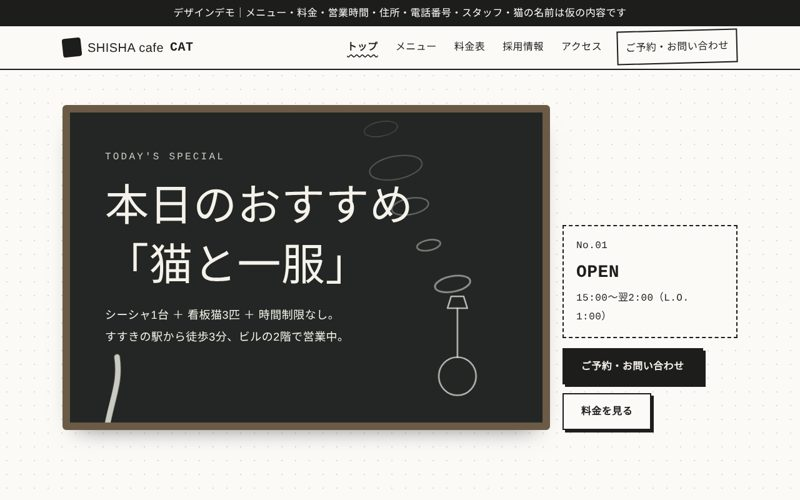
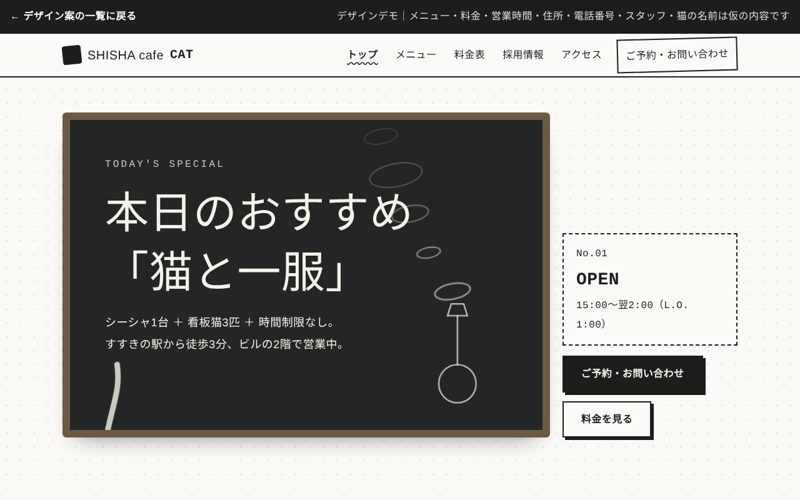
デザイン案に「一覧に戻る」リンク、デモ共有用のCloudflare設定を追加
- 各パターンの全ページ上部に「← デザイン案の一覧に戻る」
- sites/wrangler.jsonc（demoプロジェクト）と .assetsignore（一覧・本番・テストは公開しない）
- 比較ページのサムネイルを更新
- CLAUDE.md: デモの共有用URLのルールを追加

Claude-Session: https://claude.ai/code/session_011FpAienEWt9RvPZTk2NN9d

diff --git a/sites/shisha-cafe-cat/patterns/1/style.css b/sites/shisha-cafe-cat/patterns/1/style.css
@@ -13,7 +13,10 @@ ul,ol{margin:0;padding:0;list-style:none}
 [hidden]{display:none!important}
 .wrap{max-width:1120px;margin:0 auto;padding-left:max(20px,env(safe-area-inset-left,0px));padding-right:max(20px,env(safe-area-inset-right,0px))}
 
-.demo{margin:0;background:var(--ink);color:var(--bg);font-size:16px;line-height:1.6;text-align:center;padding:8px 16px}
+.demo{display:flex;flex-wrap:wrap;align-items:center;justify-content:space-between;gap:4px 16px;background:var(--ink);color:var(--bg);font-size:16px;line-height:1.6;padding:4px max(16px,env(safe-area-inset-right,0px)) 6px max(16px,env(safe-area-inset-left,0px))}
+.demo-back{display:inline-flex;align-items:center;min-height:44px;font-weight:700;text-decoration:none;color:inherit}
+.demo-back:hover{text-decoration:underline}
+.demo span{opacity:.85}
 
 /* ヘッダー */
 .hd{position:sticky;top:0;z-index:50;transition:transform .45s cubic-bezier(.2,.8,.2,1),background .3s,box-shadow .3s}

diff --git a/sites/shisha-cafe-cat/patterns/2/style.css b/sites/shisha-cafe-cat/patterns/2/style.css
@@ -13,7 +13,10 @@ ul,ol{margin:0;padding:0;list-style:none}
 [hidden]{display:none!important}
 .wrap{max-width:1120px;margin:0 auto;padding-left:max(20px,env(safe-area-inset-left,0px));padding-right:max(20px,env(safe-area-inset-right,0px))}
 
-.demo{margin:0;background:var(--ink);color:var(--bg);font-size:16px;line-height:1.6;text-align:center;padding:8px 16px}
+.demo{display:flex;flex-wrap:wrap;align-items:center;justify-content:space-between;gap:4px 16px;background:var(--ink);color:var(--bg);font-size:16px;line-height:1.6;padding:4px max(16px,env(safe-area-inset-right,0px)) 6px max(16px,env(safe-area-inset-left,0px))}
+.demo-back{display:inline-flex;align-items:center;min-height:44px;font-weight:700;text-decoration:none;color:inherit}
+.demo-back:hover{text-decoration:underline}
+.demo span{opacity:.85}
 
 /* ヘッダー */
 .hd{position:sticky;top:0;z-index:50;transition:transform .45s cubic-bezier(.2,.8,.2,1),background .3s,box-shadow .3s}

diff --git a/sites/shisha-cafe-cat/patterns/3/style.css b/sites/shisha-cafe-cat/patterns/3/style.css
@@ -13,7 +13,10 @@ ul,ol{margin:0;padding:0;list-style:none}
 [hidden]{display:none!important}
 .wrap{max-width:1120px;margin:0 auto;padding-left:max(20px,env(safe-area-inset-left,0px));padding-right:max(20px,env(safe-area-inset-right,0px))}
 
-.demo{margin:0;background:var(--ink);color:var(--bg);font-size:16px;line-height:1.6;text-align:center;padding:8px 16px}
+.demo{display:flex;flex-wrap:wrap;align-items:center;justify-content:space-between;gap:4px 16px;background:var(--ink);color:var(--bg);font-size:16px;line-height:1.6;padding:4px max(16px,env(safe-area-inset-right,0px)) 6px max(16px,env(safe-area-inset-left,0px))}
+.demo-back{display:inline-flex;align-items:center;min-height:44px;font-weight:700;text-decoration:none;color:inherit}
+.demo-back:hover{text-decoration:underline}
+.demo span{opacity:.85}
 
 /* ヘッダー */
 .hd{position:sticky;top:0;z-index:50;transition:transform .45s cubic-bezier(.2,.8,.2,1),background .3s,box-shadow .3s}

diff --git a/sites/shisha-cafe-cat/patterns/4/style.css b/sites/shisha-cafe-cat/patterns/4/style.css
@@ -13,7 +13,10 @@ ul,ol{margin:0;padding:0;list-style:none}
 [hidden]{display:none!important}
 .wrap{max-width:1120px;margin:0 auto;padding-left:max(20px,env(safe-area-inset-left,0px));padding-right:max(20px,env(safe-area-inset-right,0px))}
 
-.demo{margin:0;background:var(--ink);color:var(--bg);font-size:16px;line-height:1.6;text-align:center;padding:8px 16px}
+.demo{display:flex;flex-wrap:wrap;align-items:center;justify-content:space-between;gap:4px 16px;background:var(--ink);color:var(--bg);font-size:16px;line-height:1.6;padding:4px max(16px,env(safe-area-inset-right,0px)) 6px max(16px,env(safe-area-inset-left,0px))}
+.demo-back{display:inline-flex;align-items:center;min-height:44px;font-weight:700;text-decoration:none;color:inherit}
+.demo-back:hover{text-decoration:underline}
+.demo span{opacity:.85}
 
 /* ヘッダー */
 .hd{position:sticky;top:0;z-index:50;transition:transform .45s cubic-bezier(.2,.8,.2,1),background .3s,box-shadow .3s}

diff --git a/sites/shisha-cafe-cat/patterns/5/style.css b/sites/shisha-cafe-cat/patterns/5/style.css
@@ -13,7 +13,10 @@ ul,ol{margin:0;padding:0;list-style:none}
 [hidden]{display:none!important}
 .wrap{max-width:1120px;margin:0 auto;padding-left:max(20px,env(safe-area-inset-left,0px));padding-right:max(20px,env(safe-area-inset-right,0px))}
 
-.demo{margin:0;background:var(--ink);color:var(--bg);font-size:16px;line-height:1.6;text-align:center;padding:8px 16px}
+.demo{display:flex;flex-wrap:wrap;align-items:center;justify-content:space-between;gap:4px 16px;background:var(--ink);color:var(--bg);font-size:16px;line-height:1.6;padding:4px max(16px,env(safe-area-inset-right,0px)) 6px max(16px,env(safe-area-inset-left,0px))}
+.demo-back{display:inline-flex;align-items:center;min-height:44px;font-weight:700;text-decoration:none;color:inherit}
+.demo-back:hover{text-decoration:underline}
+.demo span{opacity:.85}
 
 /* ヘッダー */
 .hd{position:sticky;top:0;z-index:50;transition:transform .45s cubic-bezier(.2,.8,.2,1),background .3s,box-shadow .3s}

diff --git a/sites/shisha-cafe-cat/patterns/1/recruit.html b/sites/shisha-cafe-cat/patterns/1/recruit.html
@@ -23,7 +23,7 @@
 <script type="application/ld+json" id="ld"></script>
 </head>
 <body class="p-standard page-recruit">
-<p class="demo">デザインデモ｜メニュー・料金・営業時間・住所・電話番号・スタッフ・猫の名前は仮の内容です</p>
+<div class="demo"><a class="demo-back" href="../">← デザイン案の一覧に戻る</a><span>デザインデモ｜メニュー・料金・営業時間・住所・電話番号・スタッフ・猫の名前は仮の内容です</span></div>
 <header class="hd" id="hd">
   <div class="wrap hd-in">
     <a class="logo" href="index.html" aria-label="SHISHA cafe CAT トップへ"><span class="logo-mark" aria-hidden="true"></span>SHISHA cafe <b>CAT</b></a>

diff --git a/sites/shisha-cafe-cat/patterns/2/recruit.html b/sites/shisha-cafe-cat/patterns/2/recruit.html
@@ -23,7 +23,7 @@
 <script type="application/ld+json" id="ld"></script>
 </head>
 <body class="p-minimal page-recruit">
-<p class="demo">デザインデモ｜メニュー・料金・営業時間・住所・電話番号・スタッフ・猫の名前は仮の内容です</p>
+<div class="demo"><a class="demo-back" href="../">← デザイン案の一覧に戻る</a><span>デザインデモ｜メニュー・料金・営業時間・住所・電話番号・スタッフ・猫の名前は仮の内容です</span></div>
 <header class="hd" id="hd">
   <div class="wrap hd-in">
     <a class="logo" href="index.html" aria-label="SHISHA cafe CAT トップへ"><span class="logo-mark" aria-hidden="true"></span>SHISHA cafe <b>CAT</b></a>

diff --git a/sites/shisha-cafe-cat/patterns/1/index.html b/sites/shisha-cafe-cat/patterns/1/index.html
@@ -23,7 +23,7 @@
 <script type="application/ld+json" id="ld"></script>
 </head>
 <body class="p-standard page-index">
-<p class="demo">デザインデモ｜メニュー・料金・営業時間・住所・電話番号・スタッフ・猫の名前は仮の内容です</p>
+<div class="demo"><a class="demo-back" href="../">← デザイン案の一覧に戻る</a><span>デザインデモ｜メニュー・料金・営業時間・住所・電話番号・スタッフ・猫の名前は仮の内容です</span></div>
 <header class="hd" id="hd">
   <div class="wrap hd-in">
     <a class="logo" href="index.html" aria-label="SHISHA cafe CAT トップへ"><span class="logo-mark" aria-hidden="true"></span>SHISHA cafe <b>CAT</b></a>

diff --git a/sites/shisha-cafe-cat/patterns/1/price.html b/sites/shisha-cafe-cat/patterns/1/price.html
@@ -23,7 +23,7 @@
 <script type="application/ld+json" id="ld"></script>
 </head>
 <body class="p-standard page-price">
-<p class="demo">デザインデモ｜メニュー・料金・営業時間・住所・電話番号・スタッフ・猫の名前は仮の内容です</p>
+<div class="demo"><a class="demo-back" href="../">← デザイン案の一覧に戻る</a><span>デザインデモ｜メニュー・料金・営業時間・住所・電話番号・スタッフ・猫の名前は仮の内容です</span></div>
 <header class="hd" id="hd">
   <div class="wrap hd-in">
     <a class="logo" href="index.html" aria-label="SHISHA cafe CAT トップへ"><span class="logo-mark" aria-hidden="true"></span>SHISHA cafe <b>CAT</b></a>

diff --git a/sites/shisha-cafe-cat/patterns/3/recruit.html b/sites/shisha-cafe-cat/patterns/3/recruit.html
@@ -23,7 +23,7 @@
 <script type="application/ld+json" id="ld"></script>
 </head>
 <body class="p-visual page-recruit">
-<p class="demo">デザインデモ｜メニュー・料金・営業時間・住所・電話番号・スタッフ・猫の名前は仮の内容です</p>
+<div class="demo"><a class="demo-back" href="../">← デザイン案の一覧に戻る</a><span>デザインデモ｜メニュー・料金・営業時間・住所・電話番号・スタッフ・猫の名前は仮の内容です</span></div>
 <header class="hd" id="hd">
   <div class="wrap hd-in">
     <a class="logo" href="index.html" aria-label="SHISHA cafe CAT トップへ"><span class="logo-mark" aria-hidden="true"></span>SHISHA cafe <b>CAT</b></a>

diff --git a/sites/shisha-cafe-cat/patterns/5/recruit.html b/sites/shisha-cafe-cat/patterns/5/recruit.html
@@ -23,7 +23,7 @@
 <script type="application/ld+json" id="ld"></script>
 </head>
 <body class="p-unique page-recruit">
-<p class="demo">デザインデモ｜メニュー・料金・営業時間・住所・電話番号・スタッフ・猫の名前は仮の内容です</p>
+<div class="demo"><a class="demo-back" href="../">← デザイン案の一覧に戻る</a><span>デザインデモ｜メニュー・料金・営業時間・住所・電話番号・スタッフ・猫の名前は仮の内容です</span></div>
 <header class="hd" id="hd">
   <div class="wrap hd-in">
     <a class="logo" href="index.html" aria-label="SHISHA cafe CAT トップへ"><span class="logo-mark" aria-hidden="true"></span>SHISHA cafe <b>CAT</b></a>

diff --git a/sites/shisha-cafe-cat/patterns/1/menu.html b/sites/shisha-cafe-cat/patterns/1/menu.html
@@ -23,7 +23,7 @@
 <script type="application/ld+json" id="ld"></script>
 </head>
 <body class="p-standard page-menu">
-<p class="demo">デザインデモ｜メニュー・料金・営業時間・住所・電話番号・スタッフ・猫の名前は仮の内容です</p>
+<div class="demo"><a class="demo-back" href="../">← デザイン案の一覧に戻る</a><span>デザインデモ｜メニュー・料金・営業時間・住所・電話番号・スタッフ・猫の名前は仮の内容です</span></div>
 <header class="hd" id="hd">
   <div class="wrap hd-in">
     <a class="logo" href="index.html" aria-label="SHISHA cafe CAT トップへ"><span class="logo-mark" aria-hidden="true"></span>SHISHA cafe <b>CAT</b></a>
